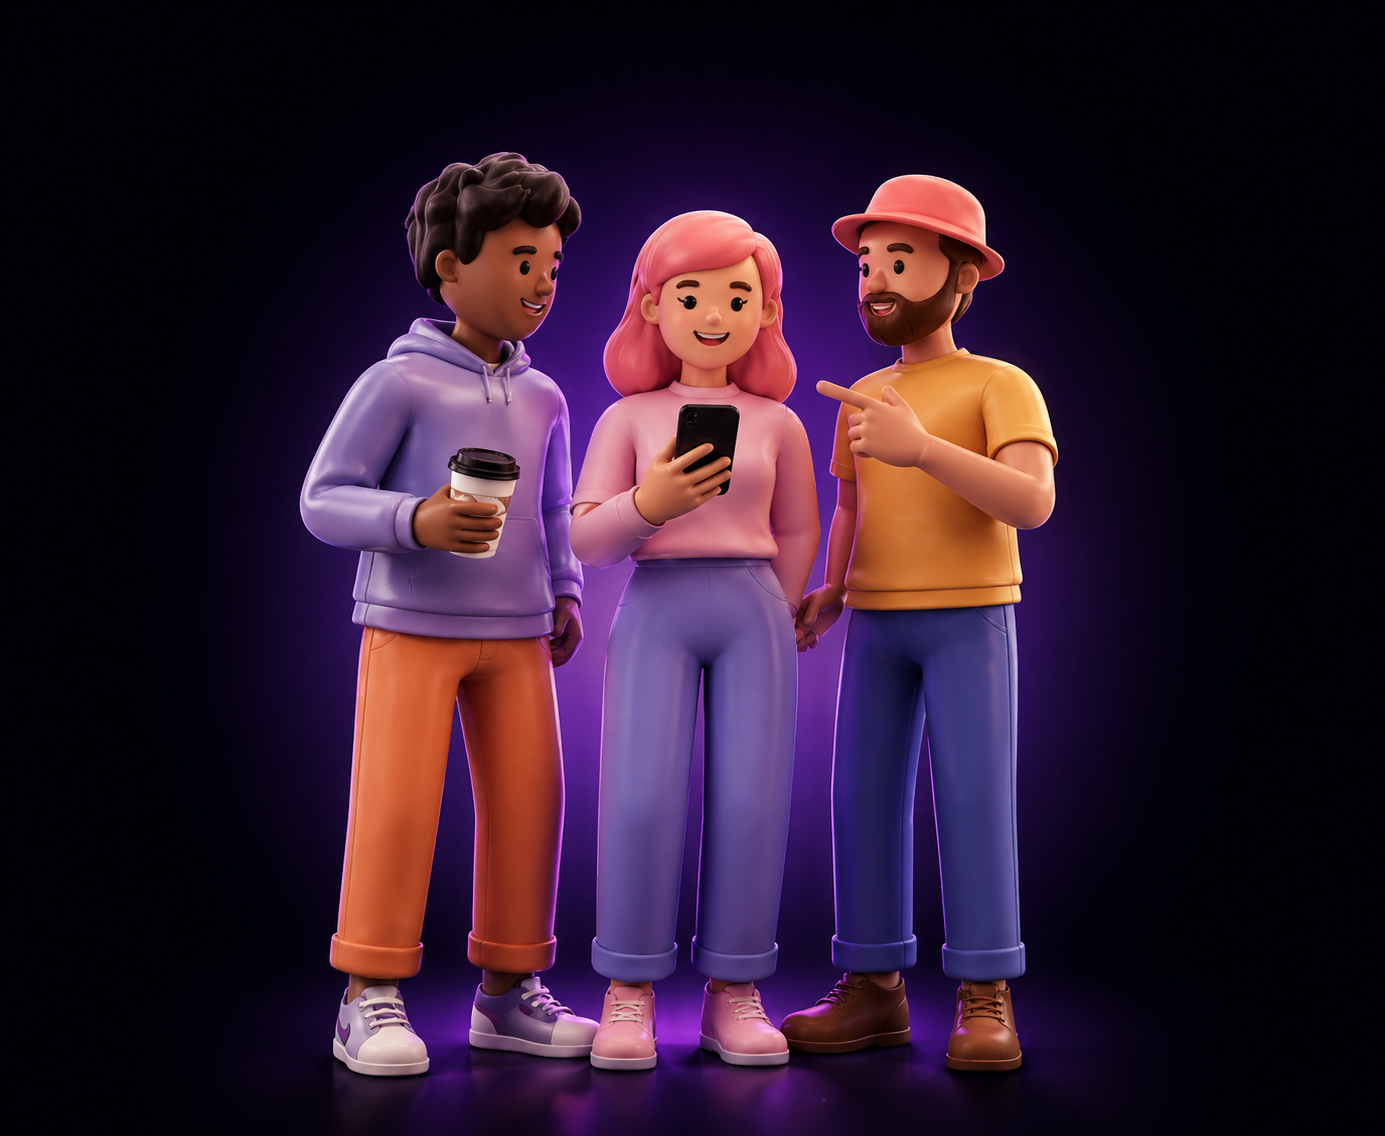
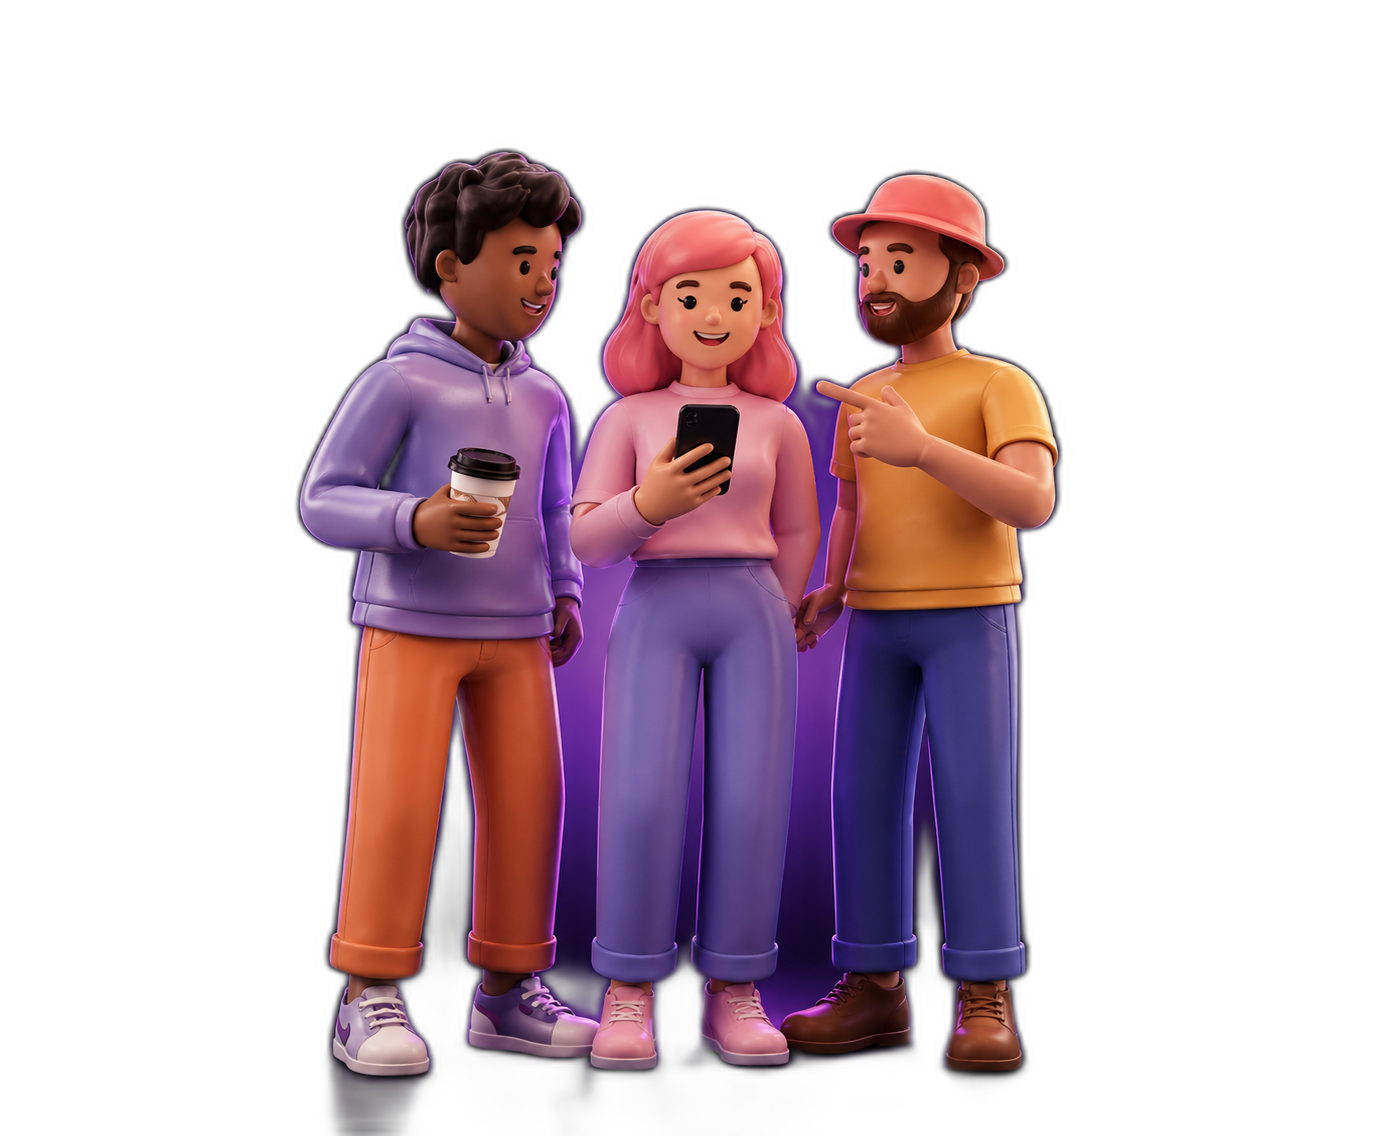
Remove backgrounds from character images using rembg AI

diff --git a/app/(tabs)/index.tsx b/app/(tabs)/index.tsx
@@ -715,7 +715,7 @@ function LandingScreen({ onCreateAccount, onLogin, onGoogleSignIn, onAppleSignIn
           <View style={{ position: 'relative' }}>
             <Animated.Image
               source={cur.img}
-              style={{ width: imgW, height: imgHt, transform: [{ scale: charsScale }], blendMode: 'screen' }}
+              style={{ width: imgW, height: imgHt, transform: [{ scale: charsScale }] }}
               resizeMode="contain"
             />
           </View>
